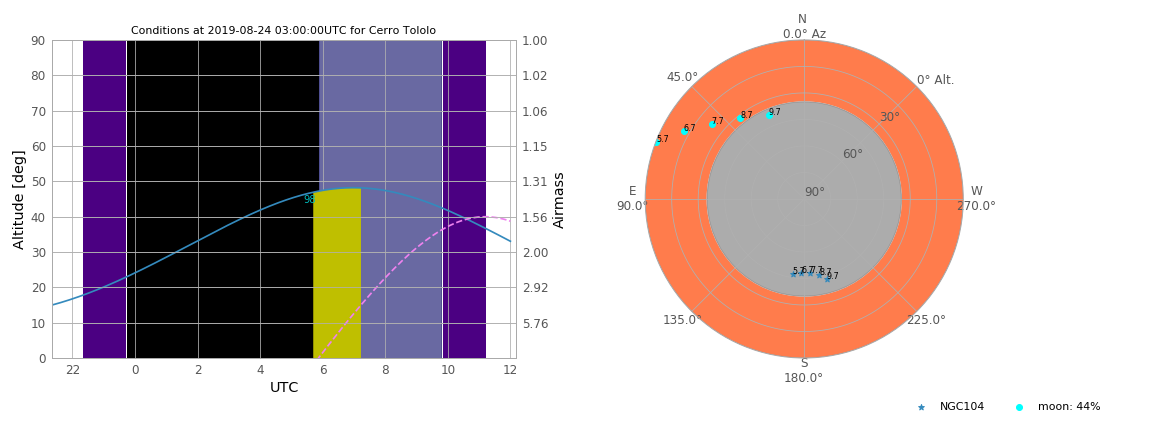
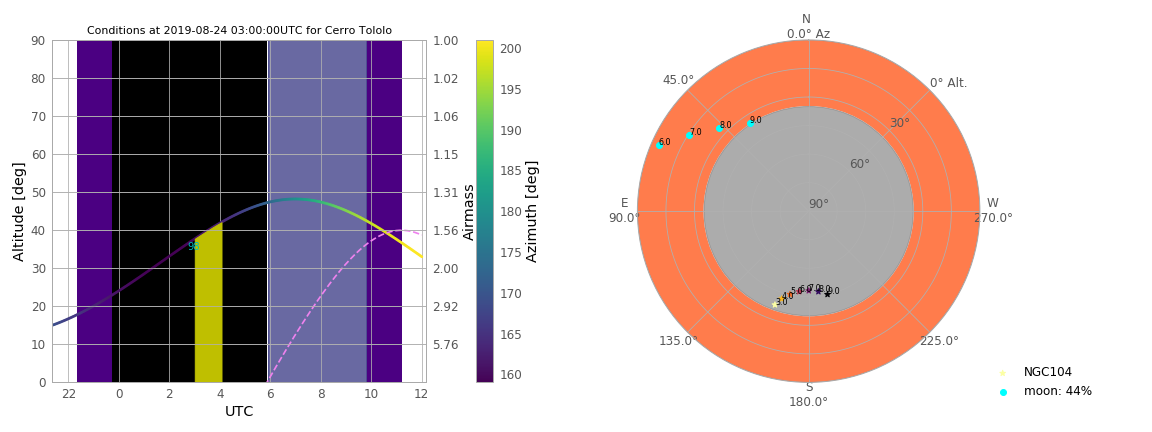
adding new example figure to the readme file

diff --git a/README.rst b/README.rst
@@ -37,11 +37,15 @@ Examples
 ``python --object NGC104 --observatory 'Cerro Tololo' -ns 2019-08-23 --at 3 --skychart --savechart test02``
 
 .. image:: figs/test02_2019-08-23_plan.png
-
-``python -f example_file.csv --observatory 'Cerro Tololo' -ns 2019-08-23 --at 3 --skychart --savechart test03``
+   
+``python --object NGC104 --observatory 'Cerro Tololo' -ns 2019-08-23 --at 3 --blocktime 3851 --skychart --savechart test03``
 
 .. image:: figs/test03_2019-08-23_plan.png
 
-``python -f example_file.csv --sitefile sitefilename_example.csv -ns 2019-08-23 --at 3 --skychart --savechart test04``
+``python -f example_file.csv --observatory 'Cerro Tololo' -ns 2019-08-23 --skychart --savechart test04``
 
 .. image:: figs/test04_2019-08-23_plan.png
+
+``python -f example_file.csv --sitefile sitefilename_example.csv -ns 2019-08-23 --at 3 --skychart --savechart test05``
+
+.. image:: figs/test05_2019-08-23_plan.png
